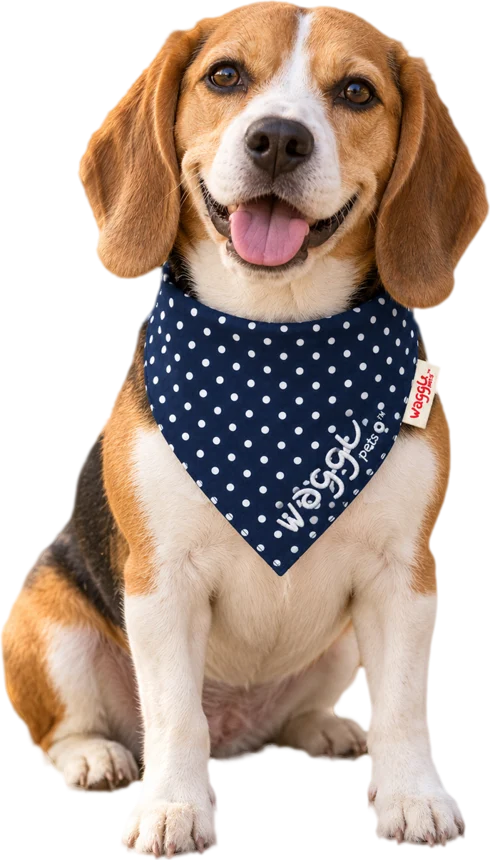
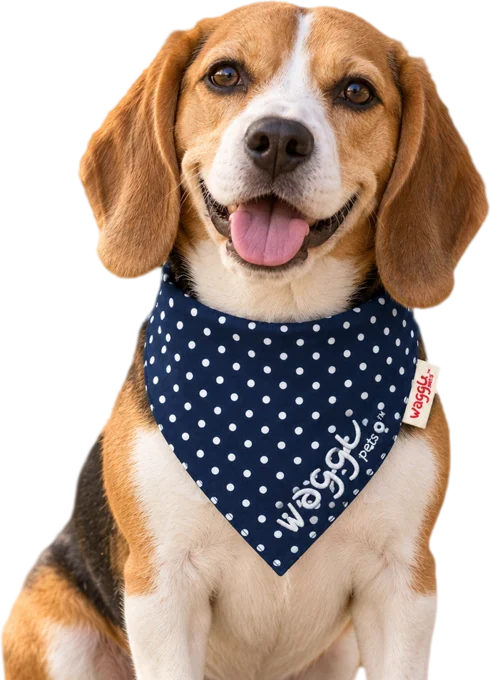
Crop the Dottie Days dog photos to chest-up
Both Dottie Days photos had paws that read as generated: too many claws
on the beagle, and melted paws with grass smears on the puppy. Both now
stop just below the bandana, like the other chest-up bandana photos,
and the dark specks along the puppy's outline are cleaned up.

Claude-Session: https://claude.ai/code/session_01DkM9nCDZ5KTapgdCCE5XQi

diff --git a/index.html b/index.html
@@ -820,7 +820,7 @@ dialog[open]::backdrop { animation: fade 0.3s ease; }
 <script>
 const STORE = 'https://fkrc04-us.myshopify.com';
 const PRODUCTS = [{"h":"puddle-parade-waterproof-dog-jacket","name":"Puddle Parade","kind":"Hooded waterproof jacket","cat":"outdoors","price":65.0,"was":78.0,"tagline":"Gray skies. Colorful walks.","blurb":"Meet Puddle Parade, the hooded waterproof dog jacket that brings a little color to rainy-day routines. Its waterproof Taslan outer fabric helps shed rain and splashes, while a breathable mesh lining adds an airy layer underneath. Bold color-block panels make every neighborhood stroll feel a little brighter.","details":["Waterproof Taslan outer fabric","Breathable mesh lining","Adjustable hood with cord toggles","Hook-and-loop belly fastenings","Reflective detailing for visibility when illuminated","Covered leash-access opening near the back of the neck","Elastic tail loop to help hold the coat in place","Four colorways; sizes L, XL, 2XL, 3XL, 4XL and 5XL"],"fit":["Measure your dog’s back length, chest girth, and neck girth before ordering. Check all three against the size guide, prioritizing a comfortable chest fit. Weight and breed are references only. If your dog falls between sizes, compare the larger size and leave room for any layer worn underneath.","Size numbers are product size codes, not measurements in inches. Manual measurements may vary slightly.","Keep the hood clear of your dog’s eyes and ears. Attach the leash to a suitable collar or harness, with its attachment point aligned to the coat opening."],"colours":[{"v":"Yellow","name":"City Yellow","hex":"#F2C230","s":"yellow"},{"v":"Green","name":"Neon Lime","hex":"#C6E03A","s":"green"},{"v":"Blue","name":"Harbor Aqua","hex":"#5DC1E6","s":"blue"},{"v":"Orange","name":"Orange","hex":"#F06A1F","s":"orange"}],"sizes":["L","XL","2XL","3XL","4XL","5XL"],"var":{"Yellow/L":[62890365222993,1],"Yellow/XL":[62890365255761,1],"Yellow/2XL":[62890365288529,1],"Yellow/3XL":[62890365321297,1],"Yellow/4XL":[62890365354065,1],"Yellow/5XL":[62890365386833,1],"Green/L":[62890365419601,1],"Green/XL":[62890365452369,1],"Green/2XL":[62890365485137,1],"Green/3XL":[62890365517905,1],"Green/4XL":[62890365550673,1],"Green/5XL":[62890365583441,1],"Blue/L":[62890365616209,1],"Blue/XL":[62890365648977,1],"Blue/2XL":[62890365681745,1],"Blue/3XL":[62890365714513,1],"Blue/4XL":[62890365747281,1],"Blue/5XL":[62890365780049,1],"Orange/L":[62891695374417,1],"Orange/XL":[62891695407185,1],"Orange/2XL":[62891695439953,1],"Orange/3XL":[62891695472721,1],"Orange/4XL":[62891695505489,1],"Orange/5XL":[62891695538257,1]},"chart":{"by":"chest","kind":"range","cols":["Back","Neck","Chest","Weight (lb)"],"rows":[["L","14.6–16.9","13.0–14.6","19.7–23.6","16.5–27.6"],["XL","16.5–18.9","13.8–16.5","22.8–26.8","27.6–38.6"],["2XL","18.5–20.9","15.0–17.3","23.6–28.3","38.6–49.6"],["3XL","20.5–22.8","16.1–18.9","25.6–30.3","49.6–60.6"],["4XL","22.4–24.8","17.7–20.5","28.7–33.1","60.6–71.7"],["5XL","26.4–28.7","20.9–25.2","33.1–38.2","71.7–88.2"]]}},{"h":"drizzle-scout-outdoor-dog-jacket","name":"Drizzle Scout","kind":"Outdoor dog jacket","cat":"outdoors","price":65.0,"was":79.0,"tagline":"Built for the next sniff, stroll, and trail.","blurb":"Meet Drizzle Scout, an outdoor dog jacket for curious noses and everyday adventures. Its shell-style design pairs a water-resistant outer fabric with a high collar for added coverage, making it a practical layer for neighborhood walks and leafy trails. The sleeveless cut leaves your dog’s legs free to move.","details":["Water-resistant outer fabric for light rain and everyday splashes","High collar with a reflective band","Adjustable drawcords at the collar and back hem","Hook-and-loop closure for an adjustable fit","Zippered back opening for access to a harness worn underneath","Sleeveless design with open leg openings","Four colors and six sizes: S, M, L, XL, 2XL, and 3XL"],"fit":["Measure your dog’s chest, neck, and back before ordering. Prioritize chest fit and check all three measurements against the size guide. Weight is a reference only, since dogs of the same weight can have different proportions. If your dog falls between sizes, compare the larger size and allow room for any layer worn underneath.","Measurements are approximate; allow 0.4–0.8 in variation.","Attach the leash to your dog’s harness or collar. The jacket itself is not a restraint device."],"colours":[{"v":"Olive Green","name":"Olive Green","hex":"#6E7449","s":"olive-green"},{"v":"Amber Brown","name":"Amber Brown","hex":"#B5652A","s":"amber-brown"}],"sizes":["S","M","L","XL","2XL","3XL"],"var":{"Olive Green/S":[62935424368721,1],"Olive Green/M":[62935424401489,1],"Olive Green/L":[62935424434257,1],"Olive Green/XL":[62935424467025,1],"Olive Green/2XL":[62935424499793,1],"Olive Green/3XL":[62935424532561,1],"Amber Brown/S":[62935424565329,0],"Amber Brown/M":[62935424598097,1],"Amber Brown/L":[62935424630865,1],"Amber Brown/XL":[62935424663633,1],"Amber Brown/2XL":[62935424696401,1],"Amber Brown/3XL":[62935424729169,1]},"chart":{"by":"chest","kind":"point","cols":["Back","Chest","Neck","Weight (lb)"],"rows":[["S","8.3","16.1","13.0","5.5–7.7"],["M","9.8","17.7","14.2","7.7–11.0"],["L","11.4","19.3","15.0","11.0–15.4"],["XL","13.0","20.9","16.1","15.4–19.8"],["2XL","14.6","22.4","16.9","19.8–26.5"],["3XL","16.1","24.0","18.1","26.5–33.1"]]}},{"h":"cloud-cruise-waterproof-dog-rain-poncho","name":"Cloud Cruise","kind":"Waterproof rain poncho","cat":"urban","price":35.0,"was":49.0,"tagline":"For walks beneath the clouds.","blurb":"Meet Cloud Cruise, a waterproof dog rain poncho made for rainy-day wandering. Its soft, flexible PU outer fabric drapes over the back and sides, while the open-leg cape design gives your dog room to step, sniff, and explore.","details":["Waterproof PU outer fabric with a soft, flexible feel","Sleeveless poncho shape with coverage over the back and sides","Hood with a clear TPU brim","Extended neck coverage with an adjustable drawcord","Adjustable body strap with a buckle","Elastic rear straps to help hold the cape in place","Protective belly panel for added coverage from ground splashes","Hidden leash-access opening","Three colors; eleven sizes from M to 9XL"],"fit":["Measure your dog’s back length, neck girth, and body girth where the strap sits. Check the maximum measurements in the size guide and allow room for a comfortable fit. Poncho length and maximum dog back length are different measurements. Weight and breed are guides only.","If your dog falls between sizes, compare the larger size. Adjust the hood so it stays clear of the eyes and ears, and attach the leash to a suitable collar or harness. The poncho is not a restraint device."],"colours":[{"v":"Yellow","name":"Sunbeam Yellow","hex":"#F4C430","s":"yellow"},{"v":"Blue","name":"Sky Blue","hex":"#7CC8EC","s":"blue"},{"v":"Green","name":"Neon Lime","hex":"#C9E84A","s":"green"}],"sizes":["M","L","XL","2XL","3XL","4XL","5XL","6XL","7XL","8XL","9XL"],"var":{"Yellow/M":[62907667644497,1],"Yellow/L":[62907681865809,1],"Yellow/XL":[62907681898577,1],"Yellow/2XL":[62907681931345,1],"Yellow/3XL":[62907681964113,1],"Yellow/4XL":[62907681996881,1],"Yellow/5XL":[62907682029649,1],"Yellow/6XL":[62907682062417,1],"Yellow/7XL":[62907682095185,1],"Yellow/8XL":[62907682127953,1],"Yellow/9XL":[62907682160721,1],"Blue/M":[62907667677265,1],"Blue/L":[62907682193489,1],"Blue/XL":[62907682226257,1],"Blue/2XL":[62907682259025,1],"Blue/3XL":[62907682291793,1],"Blue/4XL":[62907682324561,1],"Blue/5XL":[62907682357329,1],"Blue/6XL":[62907682390097,1],"Blue/7XL":[62907682422865,1],"Blue/8XL":[62907682455633,1],"Blue/9XL":[62907682488401,1],"Green/M":[62907667710033,1],"Green/L":[62907682521169,1],"Green/XL":[62907682553937,1],"Green/2XL":[62907682586705,1],"Green/3XL":[62907682619473,1],"Green/4XL":[62907682652241,1],"Green/5XL":[62907682685009,1],"Green/6XL":[62907682717777,1],"Green/7XL":[62907682750545,1],"Green/8XL":[62907682783313,1],"Green/9XL":[62907682816081,1]},"chart":{"by":"girth","kind":"max","cols":["Poncho length","Back max","Neck max","Belly max","Weight (lb)"],"rows":[["M","9.1","9.1","12.6","15.7","4.4–6.6"],["L","11.0","11.0","13.4","16.5","7.7–11.0"],["XL","13.0","13.8","15.0","17.7","11.0–16.5"],["2XL","14.6","15.4","16.5","19.7","16.5–22.0"],["3XL","17.3","18.1","18.9","22.8","22.0–30.9"],["4XL","18.1","18.9","20.5","23.6","30.9–38.6"],["5XL","20.5","21.3","22.8","25.6","38.6–49.6"],["6XL","22.0","22.8","24.4","29.5","49.6–55.1"],["7XL","24.0","24.8","26.0","31.5","55.1–66.1"],["8XL","26.0","26.8","28.3","33.5","66.1–99.2"],["9XL","31.9","32.7","31.5","39.4","99.2–132.3"]]}},{"h":"daydream-dog-base-layer-onesie","name":"Daydream","kind":"Base layer","cat":"home","price":41.0,"was":57.0,"tagline":"For slow mornings and everyday adventures.","blurb":"Meet Daydream, a simple dog base layer that brings a relaxed look to your best friend’s wardrobe. A soft brushed finish and gentle stretch make it an inviting choice for lounging at home, everyday outings, or layering beneath a suitably sized coat on cooler days.","details":["Soft brushed fabric with stretch","Four-leg design with a raised neckline","Pullover construction","Open underside and tail opening","Wear on its own or as a base layer","Available in XS, S, M, L, XL, and 2XL"],"fit":["Measure your dog’s chest, neck, and back length before ordering, then compare with the size chart. Allow room for comfortable movement and choose by measurements rather than breed or weight alone.","Measurements are taken manually and may vary by 0.5–1.0 in. Colors may appear slightly different across screens."],"colours":[{"v":"Yellow","name":"Butter Yellow","hex":"#EBCB6B","s":"yellow"},{"v":"Silver","name":"Light Grey","hex":"#C4C4C2","s":"silver"},{"v":"Gray","name":"Charcoal Grey","hex":"#4A4B4D","s":"gray"},{"v":"Brown","name":"Brown","hex":"#A89283","s":"brown"}],"sizes":["XS","S","M","L","XL","2XL"],"var":{"Yellow/XS":[62872146018385,1],"Yellow/S":[62872146051153,1],"Yellow/M":[62872146083921,1],"Yellow/L":[62872146116689,1],"Yellow/XL":[62872146149457,1],"Yellow/2XL":[62872146182225,1],"Silver/XS":[62872146214993,1],"Silver/S":[62872146247761,1],"Silver/M":[62872146280529,1],"Silver/L":[62872146313297,1],"Silver/XL":[62872146346065,1],"Silver/2XL":[62872146378833,1],"Gray/XS":[62872146411601,1],"Gray/S":[62872146444369,1],"Gray/M":[62872146477137,1],"Gray/L":[62872146509905,1],"Gray/XL":[62872146542673,1],"Gray/2XL":[62872146575441,1],"Brown/XS":[62872146608209,1],"Brown/S":[62872146640977,1],"Brown/M":[62872146673745,1],"Brown/L":[62872146706513,1],"Brown/XL":[62872146739281,1],"Brown/2XL":[62872146772049,1]},"chart":{"by":"chest","kind":"point","cols":["Back","Chest","Neck"],"rows":[["XS","10.2","15.0","9.8"],["S","11.8","16.5","10.6"],["M","13.4","18.1","11.4"],["L","15.0","19.7","12.4"],["XL","16.5","21.3","13.4"],["2XL","18.1","23.6","14.2"]]}},{"h":"trail-tails-buffalo-plaid-dog-bandana","name":"Trail Tails","kind":"Tie-strap bandana, buffalo plaid","cat":"accessories","price":13.0,"was":20.0,"tagline":"Big checks. Happy trails.","blurb":"Bring a little outdoor spirit to everyday walks with Trail Tails by WAGGL Pets. Bold buffalo plaid gives this dog bandana a classic, adventurous look, while four colorful combinations make it easy to find your pup’s perfect match.","details":["Bold buffalo plaid pattern","Dedicated tie straps for easy fastening","Adjustable fit through knot placement","Pointed front panel with WAGGL Pets logo detailing","Four color options: Orange & Black, Hot Pink & Black, Blue & Black, and Teal & Navy","Three sizes: M, L, and XL","Sold individually: one bandana in your chosen color and size"],"fit":["Measure your dog’s neck before ordering and allow enough strap length for tying. Leave room for two fingers between the bandana and your dog’s neck.","Supervise your dog while wearing this accessory. Remove it during sleep or unattended time. This bandana is not a collar and must not be used to attach a leash."],"colours":[{"v":"Orange","name":"Orange & Black","hex":"#E8642C","s":"orange"},{"v":"Red","name":"Hot Pink & Black","hex":"#D8325A","s":"red"},{"v":"Blue","name":"Blue & Black","hex":"#2F6BD8","s":"blue"},{"v":"Green","name":"Teal & Navy","hex":"#1F7F73","s":"green"}],"sizes":["M","L","XL"],"var":{"Orange/M":[62916711940177,1],"Orange/L":[62916711972945,1],"Orange/XL":[62916712005713,1],"Red/M":[62916712038481,1],"Red/L":[62916712071249,1],"Red/XL":[62916712104017,1],"Blue/M":[62916712136785,1],"Blue/L":[62916712169553,1],"Blue/XL":[62916712202321,1],"Green/M":[62916712235089,1],"Green/L":[62916712267857,1],"Green/XL":[62916712300625,1]},"chart":{"by":"neck","kind":"max","cols":["Fits necks up to","Panel depth"],"rows":[["M","13","7"],["L","18","9.5"],["XL","26","11.5"]]}},{"h":"dapper-hound-houndstooth-dog-bandana","name":"Dapper Hound","kind":"Tie-strap bandana, houndstooth","cat":"accessories","price":13.0,"was":20.0,"tagline":"Classic checks. A little canine charm.","blurb":"Give everyday outings a stylish finishing touch with Dapper Hound by WAGGL Pets. The timeless houndstooth pattern brings a hint of vintage charm, while four distinctive color combinations let your dog’s personality shine—from classic Black & White to cheerful Mustard & Black.","details":["Classic houndstooth pattern","Dedicated tie straps for easy fastening","Adjustable fit through knot placement","Pointed front panel with WAGGL Pets logo detailing","Four color options: Mustard & Black, Teal & Black, Black & White, and Dusty Rose & White","Three sizes: M, L, and XL","Sold individually: one bandana in your selected color and size"],"fit":["Measure your dog’s neck before ordering and allow enough strap length for tying. Once fastened, leave room for two fingers between the bandana and your dog’s neck.","Supervise your dog while wearing this accessory. Remove it during sleep or unattended time. This bandana is not a collar and must not be used to attach a leash."],"colours":[{"v":"Red","name":"Dusty Rose & White","hex":"#D58AA6","s":"red"},{"v":"Green","name":"Teal & Black","hex":"#2C8A8E","s":"green"},{"v":"Yellow","name":"Mustard & Black","hex":"#B98A2E","s":"yellow"},{"v":"Black","name":"Black & White","hex":"#58595B","s":"black"}],"sizes":["M","L","XL"],"var":{"Red/M":[62912662110289,1],"Red/L":[62912662143057,1],"Red/XL":[62912662175825,1],"Green/M":[62912662208593,1],"Green/L":[62912662241361,1],"Green/XL":[62912662274129,1],"Yellow/M":[62912662306897,1],"Yellow/L":[62912662339665,1],"Yellow/XL":[62912662372433,1],"Black/M":[62912662405201,1],"Black/L":[62912662437969,1],"Black/XL":[62912662470737,1]},"chart":{"by":"neck","kind":"max","cols":["Fits necks up to","Panel depth"],"rows":[["M","13","7"],["L","18","9.5"],["XL","26","11.5"]]}},{"h":"dottie-days-polka-dot-dog-bandana","name":"Dottie Days","kind":"Tie-strap bandana, small polka dots","cat":"accessories","price":13.0,"was":20.0,"tagline":"Little dots. Happy days.","blurb":"Bring a little charm to your dog’s daily adventures with Dottie Days by WAGGL Pets. Delicate white polka dots pair with rich Navy Blue or Burgundy for a timeless look, finished with WAGGL Pets logo detailing.","details":["Dedicated tie straps for easy fastening","Adjustable fit through knot placement","Small white polka dots for a classic, playful look","Pointed front panel with WAGGL Pets logo detailing","Available in Navy Blue and Burgundy","Sizes: M, L, and XL","Sold individually: one bandana in your chosen color and size"],"fit":["Measure your dog’s neck before ordering and allow enough strap length for tying. Leave room for two fingers between the bandana and your dog’s neck.","Supervise your dog while wearing this accessory and remove it during sleep or unattended time. This bandana is not a collar and must not be used to attach a leash."],"colours":[{"v":"Red","name":"Burgundy","hex":"#8E1F2C","s":"red"},{"v":"Blue","name":"Navy Blue","hex":"#1E2C4F","s":"blue"}],"sizes":["M","L","XL"],"var":{"Red/M":[62912644448337,1],"Red/L":[62912644481105,0],"Red/XL":[62912644513873,0],"Blue/M":[62912644546641,0],"Blue/L":[62912644579409,0],"Blue/XL":[62912644612177,0]},"chart":{"by":"neck","kind":"max","cols":["Fits necks up to","Panel depth"],"rows":[["M","13","7"],["L","18","9.5"],["XL","26","11.5"]]}},{"h":"dot-and-dash-tie-strap-dog-bandana","name":"Dot & Dash","kind":"Tie-strap bandana, large polka dots","cat":"accessories","price":13.0,"was":20.0,"tagline":"A little knot. A lot of personality.","blurb":"Meet Dot & Dash, the WAGGL Pets dog bandana that brings a playful touch to everyday outings. Crisp white polka dots stand out against Navy Blue or Burgundy, while WAGGL Pets logo detailing adds a signature finishing touch.","details":["Dedicated tie straps for easy fastening","Adjustable fit through knot placement","Classic white polka dot pattern","Pointed front panel with WAGGL Pets logo detailing","Two color options: Navy Blue and Burgundy","Three size options: M, L, and XL"],"fit":["Measure your dog’s neck before choosing a size and allow enough strap length for tying. Once fastened, leave room for two fingers between the bandana and your dog’s neck.","Supervise your dog while wearing the bandana. Remove it during sleep or unattended time. This accessory is not a collar and must not be used to attach a leash.","Includes one bandana in your selected color and size."],"colours":[{"v":"Red","name":"Burgundy","hex":"#9A1E2B","s":"red"},{"v":"Blue","name":"Navy Blue","hex":"#1C2850","s":"blue"}],"sizes":["M","L","XL"],"var":{"Red/M":[62912641728593,1],"Red/L":[62912641761361,1],"Red/XL":[62912641794129,1],"Blue/M":[62912641826897,0],"Blue/L":[62912641859665,1],"Blue/XL":[62912641892433,1]},"chart":{"by":"neck","kind":"max","cols":["Fits necks up to","Panel depth"],"rows":[["M","13","7"],["L","18","9.5"],["XL","26","11.5"]]}},{"h":"little-dots-polka-dot-dog-bandana","name":"Little Dots","kind":"Classic bandana, small polka dots","cat":"accessories","price":13.0,"was":20.0,"tagline":"Little dots. Big charm.","blurb":"Give everyday outings a touch of vintage charm with Little Dots. Neat white mini polka dots bring a playful rhythm to rich red or classic navy, creating a look that feels equally at home on a neighborhood stroll or at a weekend gathering.","details":["Fine white polka dot pattern in two classic colorways","Triangular shape with a tie-on fastening","White embroidered WAGGL Pets logo","Branded side label","A charming accessory for everyday walks, photos, and special occasions"],"fit":["Measure your dog’s neck and check the size guide before ordering. Allow room for tying and a comfortable fit. Select the size by measurements rather than breed alone."],"colours":[{"v":"Red","name":"Classic Red","hex":"#B3202E","s":"red"},{"v":"Blue","name":"Navy Blue","hex":"#1D2A4E","s":"blue"}],"sizes":["M","L","XL"],"var":{"Red/XL":[62866663407697,1],"Red/L":[62866663440465,1],"Red/M":[62866663473233,1],"Blue/XL":[62866663506001,1],"Blue/L":[62866663538769,1],"Blue/M":[62866663571537,1]},"chart":null},{"h":"dot-and-dash-polka-dot-dog-bandana","name":"Dot & Dash Classic","kind":"Classic bandana, large polka dots","cat":"accessories","price":13.0,"was":20.0,"tagline":"Classic dots. A dash of personality.","blurb":"Meet Dot & Dash, a playful finishing touch for your dog’s everyday adventures. Crisp white polka dots stand out against Cherry Red or Navy Blue, bringing a little retro charm to neighborhood walks, weekend outings, and moments worth capturing.","details":["Classic white polka dots in two distinctive colorways","Cherry Red for a cheerful pop of color, or Navy Blue for timeless style","Triangular shape with a tie-on fastening","White embroidered WAGGL Pets logo and branded side label","An easy way to dress up everyday outings and special occasions"],"fit":["Measure your dog’s neck and refer to the size guide before ordering. Leave enough room for the knot and a comfortable fit. Choose by measurements rather than breed alone."],"colours":[{"v":"Red","name":"Cherry Red","hex":"#C21F2F","s":"red"},{"v":"Blue","name":"Navy Blue","hex":"#1C2850","s":"blue"}],"sizes":["M","L","XL"],"var":{"Red/XL":[62866507399249,1],"Red/L":[62866507432017,1],"Red/M":[62866507464785,1],"Blue/XL":[62866507497553,1],"Blue/L":[62866507530321,1],"Blue/M":[62866507563089,1]},"chart":null},{"h":"dapper-days-houndstooth-dog-bandana","name":"Dapper Days","kind":"Classic bandana, houndstooth","cat":"accessories","price":13.0,"was":20.0,"tagline":"A little charm for every outing.","blurb":"Meet Dapper Days: a classic houndstooth dog bandana with a playful WAGGL Pets touch. Its intricate two-tone pattern and embroidered logo bring a polished look to everyday walks, café stops, and photo-worthy moments with your best friend.","details":["Classic houndstooth pattern in four distinctive colorways","Triangular shape with a tie-on fastening","Embroidered WAGGL Pets logo and branded side label","A finishing touch for everyday outings and special occasions"],"fit":["Measure your dog’s neck and check the size guide before ordering. Allow enough room for a comfortable knot and a relaxed fit."],"colours":[{"v":"Gold","name":"Mustard Yellow","hex":"#B58B2C","s":"gold"},{"v":"Green","name":"Teal","hex":"#2B8E95","s":"green"},{"v":"Black","name":"Black & White","hex":"#505052","s":"black"},{"v":"Red","name":"Rose Pink","hex":"#D98AA8","s":"red"}],"sizes":["M","L","XL"],"var":{"Gold/M":[62861073842257,1],"Gold/L":[62861073875025,1],"Gold/XL":[62861073907793,1],"Green/M":[62861073940561,1],"Green/L":[62861073973329,1],"Green/XL":[62861074006097,1],"Black/M":[62861074038865,1],"Black/L":[62861074071633,1],"Black/XL":[62861074104401,1],"Red/M":[62861074137169,1],"Red/L":[62861074169937,1],"Red/XL":[62861074202705,1]},"chart":null},{"h":"plaid-dog-bandana","name":"Buffalo Plaid","kind":"Classic bandana, buffalo plaid","cat":"accessories","price":13.0,"was":20.0,"tagline":"Add a classic plaid look to your dog’s everyday style.","blurb":"This triangular dog bandana features a bold buffalo check pattern, a tie-on design, and embroidered WAGGL Pets branding. Available in four colors: orange, blue, red, and green.","details":["Triangular plaid dog bandana","Tie-on design","Embroidered WAGGL Pets logo","Four color options: orange, blue, red, and green"],"fit":["Tie the bandana comfortably around your dog’s neck and adjust the knot for a secure fit. Please measure your dog’s neck before ordering and supervise your pet while wearing the bandana."],"colours":[{"v":"Orange","name":"Orange & Black","hex":"#E8642C","s":"orange"},{"v":"Blue","name":"Blue & Black","hex":"#2F6BD8","s":"blue"},{"v":"Green","name":"Green & Black","hex":"#1F7F73","s":"green"},{"v":"Red","name":"Red & Black","hex":"#C62A2F","s":"red"}],"sizes":["M","L","XL"],"var":{"Orange/M":[62850956492881,1],"Orange/L":[62850956525649,1],"Orange/XL":[62850956558417,1],"Blue/M":[62850956591185,1],"Blue/L":[62850956623953,1],"Blue/XL":[62850956656721,1],"Green/M":[62850956689489,1],"Green/L":[62850956722257,1],"Green/XL":[62850956755025,1],"Red/M":[62850956787793,1],"Red/L":[62850956820561,1],"Red/XL":[62850956853329,1]},"chart":null}];
-const BUST = new Set(["dapper-hound-houndstooth-dog-bandana-black", "dapper-hound-houndstooth-dog-bandana-green", "dapper-hound-houndstooth-dog-bandana-red", "dapper-hound-houndstooth-dog-bandana-yellow", "dot-and-dash-polka-dot-dog-bandana-blue", "dot-and-dash-polka-dot-dog-bandana-red", "dot-and-dash-tie-strap-dog-bandana-blue", "dot-and-dash-tie-strap-dog-bandana-red", "plaid-dog-bandana-blue", "plaid-dog-bandana-green", "plaid-dog-bandana-orange", "plaid-dog-bandana-red", "trail-tails-buffalo-plaid-dog-bandana-blue", "trail-tails-buffalo-plaid-dog-bandana-green", "trail-tails-buffalo-plaid-dog-bandana-orange", "trail-tails-buffalo-plaid-dog-bandana-red"]);
+const BUST = new Set(["dapper-hound-houndstooth-dog-bandana-black", "dapper-hound-houndstooth-dog-bandana-green", "dapper-hound-houndstooth-dog-bandana-red", "dapper-hound-houndstooth-dog-bandana-yellow", "dot-and-dash-polka-dot-dog-bandana-blue", "dot-and-dash-polka-dot-dog-bandana-red", "dot-and-dash-tie-strap-dog-bandana-blue", "dot-and-dash-tie-strap-dog-bandana-red", "dottie-days-polka-dot-dog-bandana-blue", "dottie-days-polka-dot-dog-bandana-red", "plaid-dog-bandana-blue", "plaid-dog-bandana-green", "plaid-dog-bandana-orange", "plaid-dog-bandana-red", "trail-tails-buffalo-plaid-dog-bandana-blue", "trail-tails-buffalo-plaid-dog-bandana-green", "trail-tails-buffalo-plaid-dog-bandana-orange", "trail-tails-buffalo-plaid-dog-bandana-red"]);
 
 const GROUPS = {
   rain: { label: 'Rain gear', cats: ['outdoors', 'urban'] },
